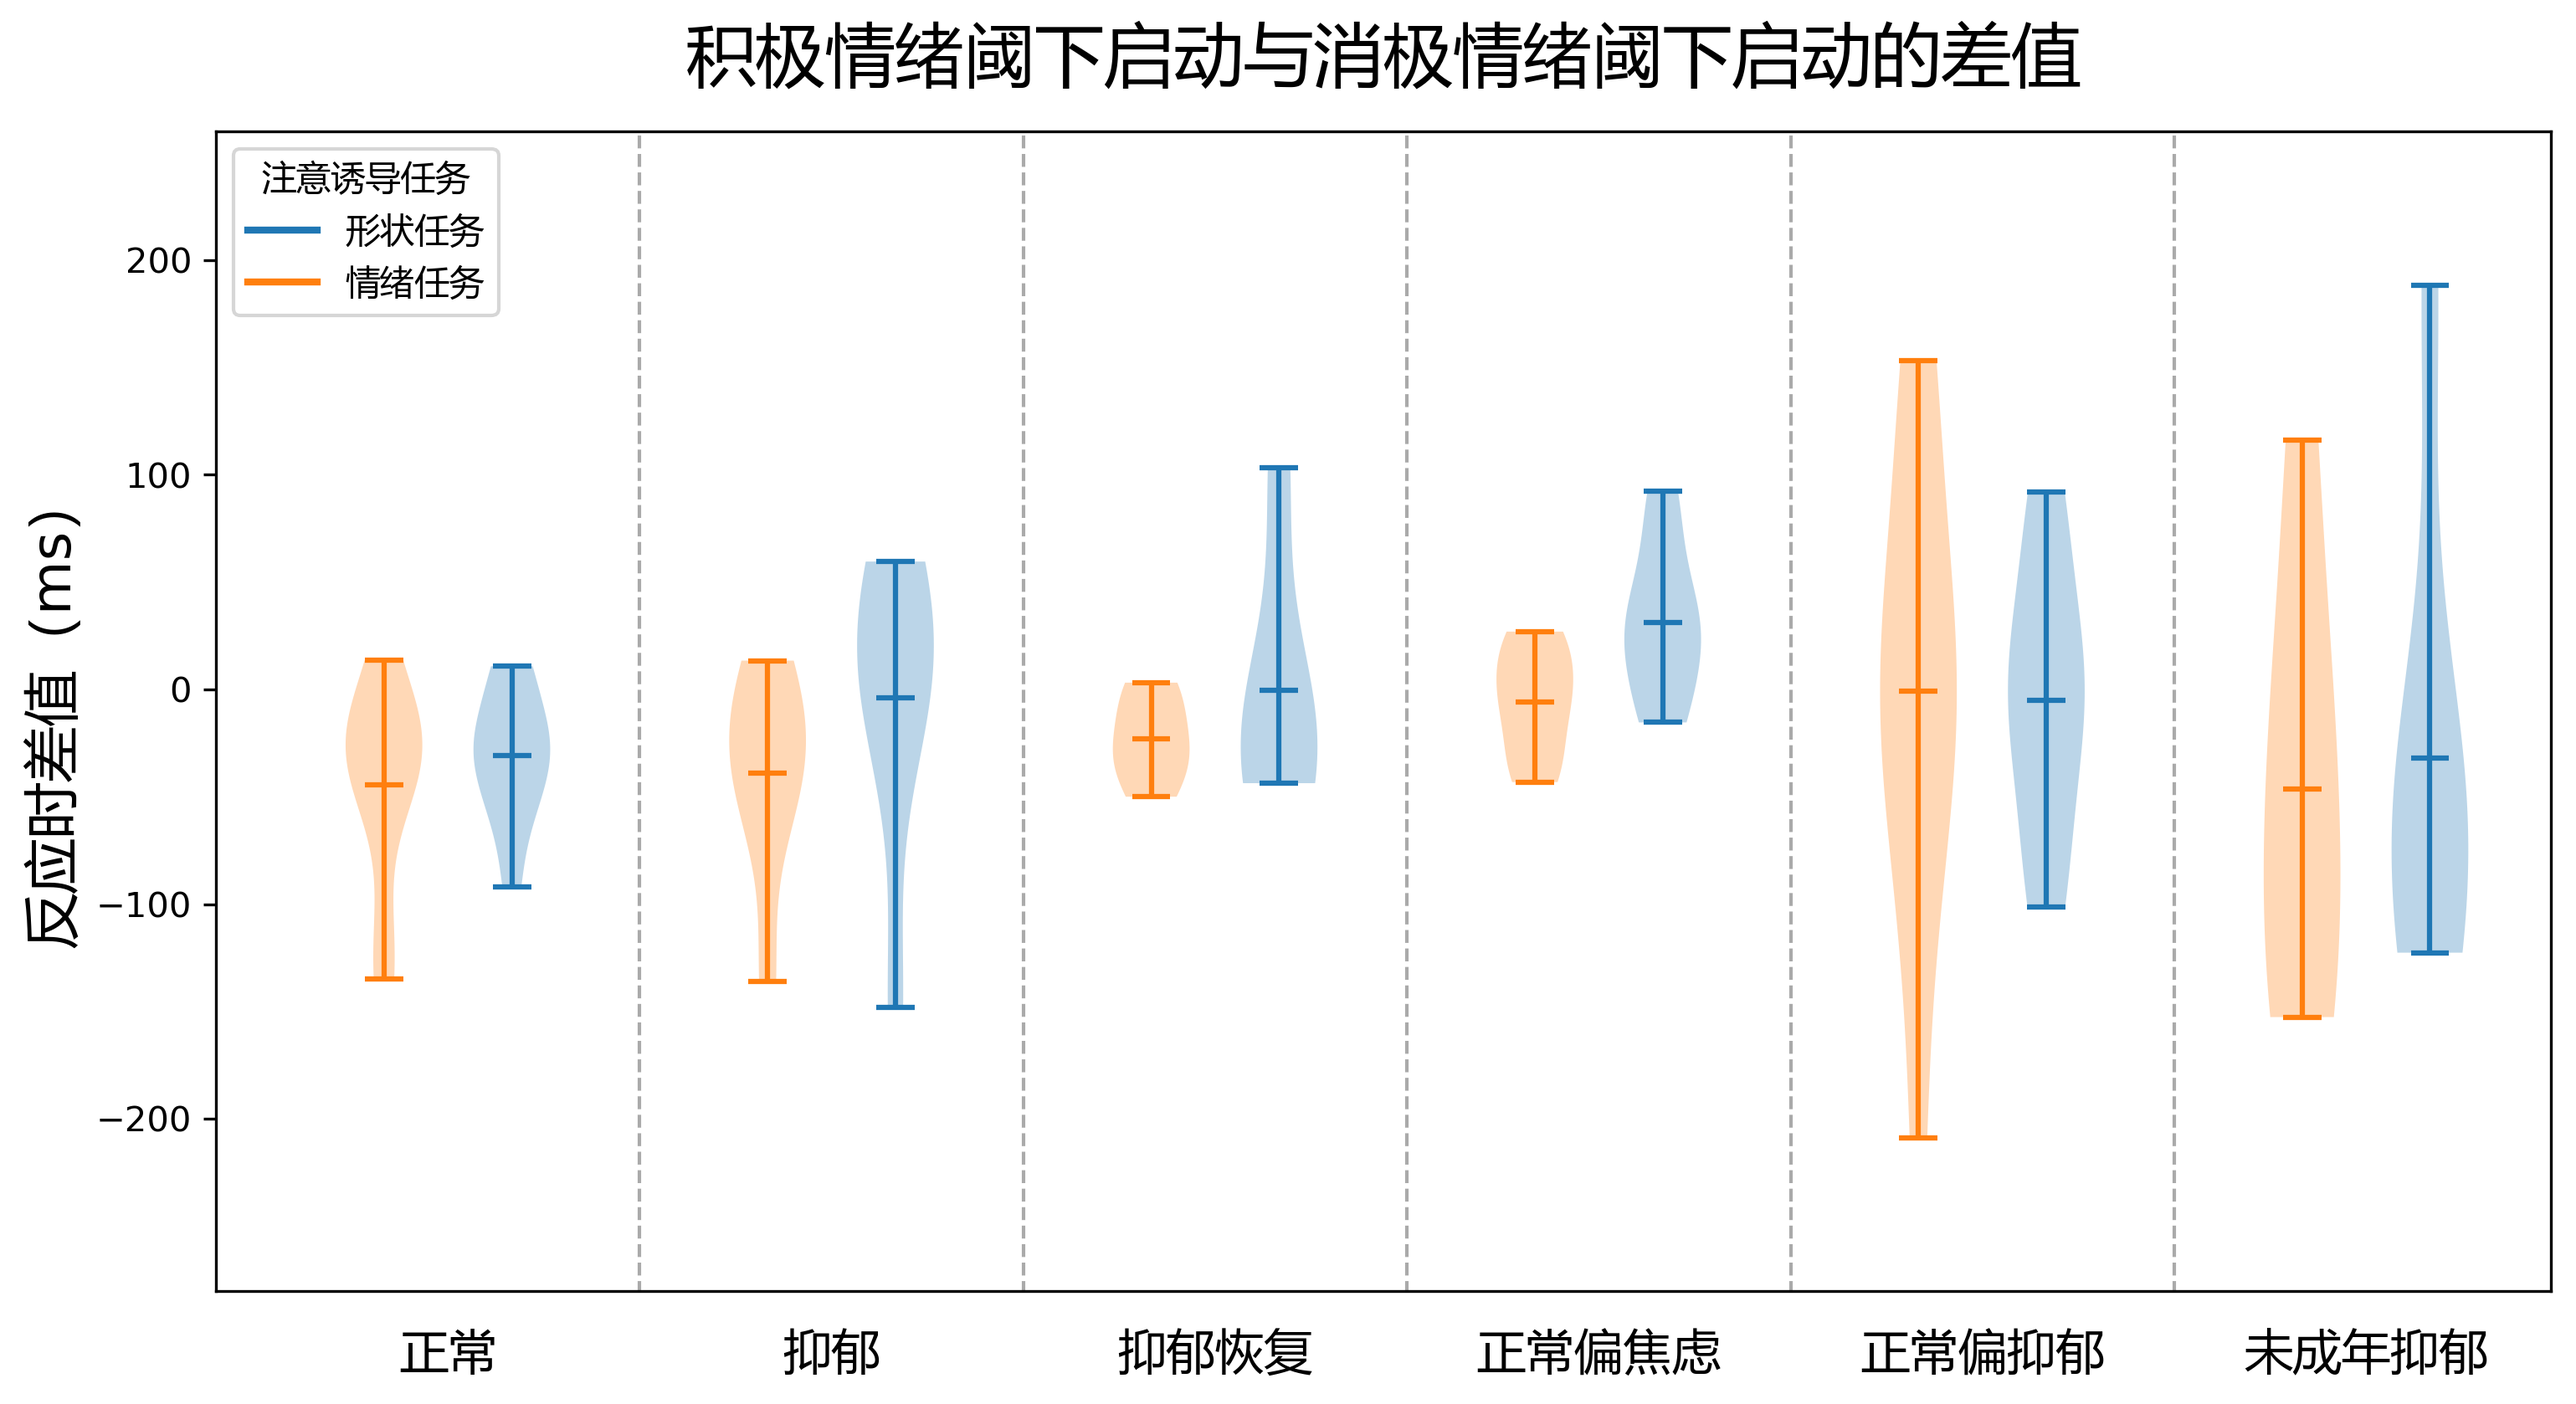
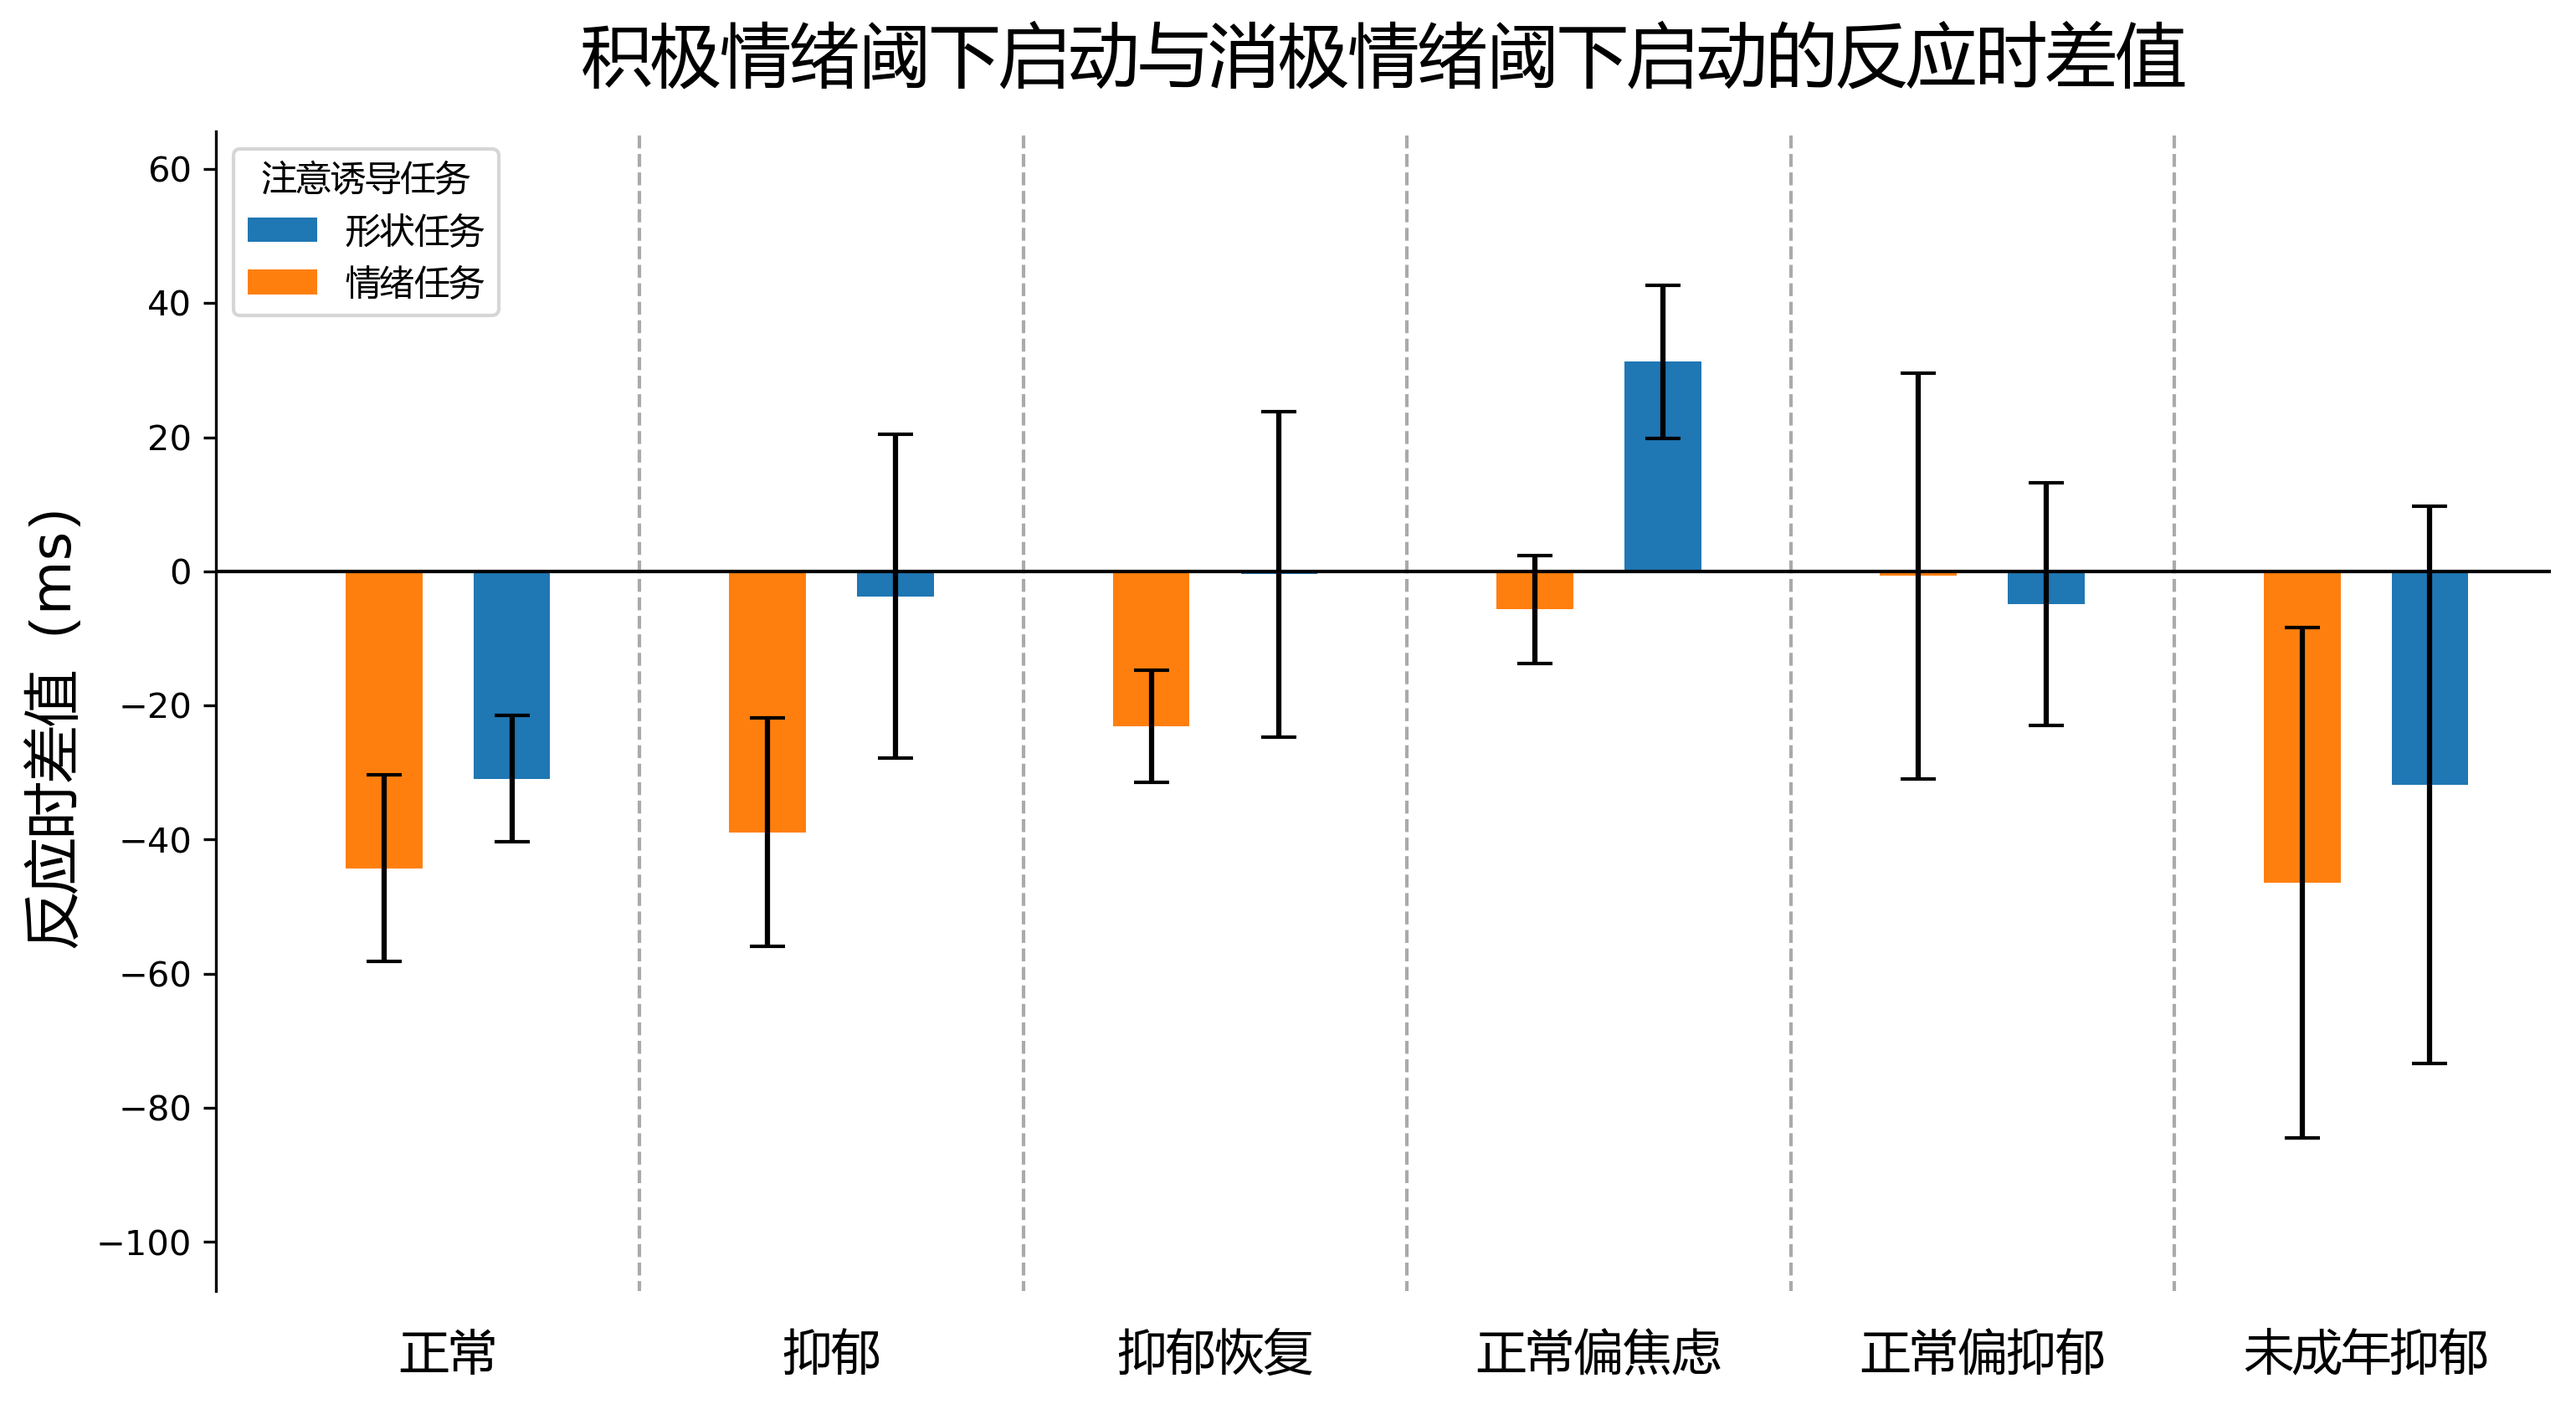
figure2

diff --git a/plot_2nd.py b/plot_2nd.py
@@ -42,8 +42,7 @@ def readData(fileDir):
 
 
 def plotFigure1():
-    fig  = figure()
-    ax = fig.add_subplot(111)
+    fig = figure(figsize=(12,6))
     groups = df['group'].unique()
     allDataShape = {}
     allDataEmotion = {}
@@ -53,65 +52,132 @@ def plotFigure1():
         allDataShape[group] = dfGroup['shape_pos-neg'].values
         allDataEmotion[group] = dfGroup['emotion_pos-neg'].values
 
-    fig = figure(figsize=(12,6))
     ax = fig.add_subplot(111)
-    y_min,y_max = (0,0)
+    y_min, y_max = (0, 0)
+    
+    bar_width = 0.6
     for i, group in enumerate(groups):
         dataEmotion = allDataEmotion[group]
         dataShape = allDataShape[group]
-        partShape = ax.violinplot(dataShape, positions=[i*3+0.5], showmeans=True, showmedians=False, widths=0.6)
-        partEmotion = ax.violinplot(dataEmotion, positions=[i*3-0.5], showmeans=True, showmedians=False, widths=0.6)
+        
+        # Calculate means and standard errors
+        shape_mean = np.mean(dataShape)
+        shape_error = np.std(dataShape) / np.sqrt(len(dataShape))
+        emotion_mean = np.mean(dataEmotion)
+        emotion_error = np.std(dataEmotion) / np.sqrt(len(dataEmotion))
+        
+        # Create bar plots instead of violin plots
+        ax.bar(i*3+0.5, shape_mean, width=bar_width, yerr=shape_error, color='#1f77b4', capsize=5, label='形状任务' if i == 0 else '')
+        ax.bar(i*3-0.5, emotion_mean, width=bar_width, yerr=emotion_error, color='#ff7f0e', capsize=5, label='情绪任务' if i == 0 else '')
+        
         if i != len(groups)-1:
-            ax.vlines([i*3+1.5], ymin=-500,  ymax=500, colors='#aaaaaa', linestyles='--', lw=1)
-        from matplotlib.lines import Line2D
-        proxy_shape   = Line2D([], [], color='#1f77b4', lw=2)   # 颜色可改
-        proxy_emotion = Line2D([], [], color='#ff7f0e', lw=2)
+            ax.vlines([i*3+1.5], ymin=-500, ymax=500, colors='#aaaaaa', linestyles='--', lw=1)
 
-        ax.legend([proxy_shape, proxy_emotion],
-          ['形状任务', '情绪任务'],title = '注意诱导任务',loc = 'upper left')
+        y_min = min(y_min, shape_mean - shape_error, emotion_mean - emotion_error)
+        y_max = max(y_max, shape_mean + shape_error, emotion_mean + emotion_error)
 
-        lines = ['cmins','cmaxes','cmeans','cbars']
-        for line in lines:
-            partShape[line].set_color('#1f77b4')
-            partEmotion[line].set_color('#ff7f0e')
-
-        for pc in partShape['bodies']:
-            pc.set_facecolor('#1f77b4')
-
-        for pc in partEmotion['bodies']:
-            pc.set_facecolor('#ff7f0e')
-            
-
-        y_min = min(y_min, min(dataShape), min(dataEmotion))
-        y_max = max(y_max, max(dataShape), max(dataEmotion))
+    
+    # Add horizontal line at y=0
+    ax.axhline(y=0, color='black', linestyle='-', linewidth=1.0)
+    
+    # Hide top, right and bottom spines
+    ax.spines['top'].set_visible(False)
+    ax.spines['right'].set_visible(False)
+    ax.spines['bottom'].set_visible(False)
+    
+    # Legend
+    ax.legend(title='注意诱导任务', loc='upper left')
     
     ax.set_xticks([i*3 for i in range(len(groups))])
-
     ax.set_xticklabels(groups, fontdict={'size': 14})
     x_min, x_max = ax.get_xlim()  
     dx = x_max - x_min
     ax.set_xlim(x_min - 0.01*dx, x_max - 0.01*dx)
-    ax.tick_params(axis='x', which = 'both',length = 8, color = '#ffffff')
+    ax.tick_params(axis='x', which='both', length=8, color='#ffffff')
 
     dy = y_max-y_min
     ax.set_ylim(y_min - 0.18*dy, y_max + 0.18*dy)
-    ax.set_ylabel('反应时差值（ms）',fontdict={'size': 16})
+    ax.set_ylabel('反应时差值（ms）', fontdict={'size': 16})
+    ax.set_title('积极情绪阈下启动与消极情绪阈下启动的反应时差值', fontdict={'size': 20}, pad=15)
 
-    ax.set_title('积极情绪阈下启动与消极情绪阈下启动的差值',fontdict={'size': 20},pad = 15)
-
-    fig.savefig(os.path.join(FIGURE_PATH, 'figure1.png'),bbox_inches='tight')
+    fig.savefig(os.path.join(FIGURE_PATH, 'figure1.png'), bbox_inches='tight')
     plt.close(fig)
 
+def plotFigure2():
+    fig = figure(figsize=(12,8))
+    ax1 = fig.add_subplot(211)
+    ax2 = fig.add_subplot(212)
+    groups = df['group'].unique()
+    allDataShape = {}
+    allDataEmotion = {}
+    
+    for group in groups:
+        dfGroup = df[df['group'] == group]
+        allDataShape[group] = dfGroup['shape_pos-neg'].values
+        allDataEmotion[group] = dfGroup['emotion_pos-neg'].values
+
+    y_min, y_max = (0, 0)
+    bar_width = 0.6
+    
+    for i, group in enumerate(groups):
+        dataEmotion = allDataEmotion[group]
+        dataShape = allDataShape[group]
+        
+        # Calculate means and standard errors
+        shape_mean = np.mean(dataShape)
+        shape_error = np.std(dataShape) / np.sqrt(len(dataShape))
+        emotion_mean = np.mean(dataEmotion)
+        emotion_error = np.std(dataEmotion) / np.sqrt(len(dataEmotion))
+        if i== 0:
+            # Create bar plots instead of violin plots
+            ax1.bar(i*1.5, shape_mean, width=bar_width, yerr=shape_error, color='#1f77b4', capsize=3,error_kw = {'linewidth': 1.0}, label='形状诱导任务')
+            ax2.bar(i*1.5, emotion_mean, width=bar_width, yerr=emotion_error, color='#ff7f0e', capsize=3, error_kw = {'linewidth': 1.0}, label='情绪诱导任务')
+        else:
+            ax1.bar(i*1.5, shape_mean, width=bar_width, yerr=shape_error, color='#1f77b4', capsize=3,error_kw = {'linewidth': 1.0})
+            ax2.bar(i*1.5, emotion_mean, width=bar_width, yerr=emotion_error, color='#ff7f0e', capsize=3,error_kw = {'linewidth': 1.0})
+
+        y_min = min(y_min, shape_mean - shape_error, emotion_mean - emotion_error)
+        y_max = max(y_max, shape_mean + shape_error, emotion_mean + emotion_error)
+
+    ax1.legend()
+    ax2.legend()
+
+    for ax in [ax1, ax2]:
+        # Add horizontal line at y=0
+        ax.axhline(y=0, color='black', linestyle='-', linewidth=1.0)
+        
+        # Hide top, right and bottom spines
+        # ax.spines['top'].set_visible(False)
+        # ax.spines['right'].set_visible(False)
+        # ax.spines['bottom'].set_visible(False)
+        
+
+        ax.set_xticks([i*1.5 for i in range(len(groups))])
+        ax.set_xticklabels(groups, fontdict={'size': 14})
+        ax.tick_params(axis='x', which='both', length=5, color="#000000")
+        # ax.set_title('情绪诱导任务时阈下启动的反应时差值', fontdict={'size': 16}, pad=5)
+
+        # ax.set_title('形状诱导任务时阈下启动的反应时差值', fontdict={'size': 16}, pad=5)
+
+        x_min, x_max = ax.get_xlim()
+        dx = x_max - x_min
+        ax.set_xlim(x_min - 0.04*dx, x_max + 0.04*dx)
+        dy = y_max-y_min
+        ax.set_ylim(y_min - 0.18*dy, y_max + 0.18*dy)
+        ax.set_ylabel('积极启动-消极启动反应时差值（ms）', fontdict={'size': 12})
+    
+
+    fig.savefig(os.path.join(FIGURE_PATH, 'figure2.png'), bbox_inches='tight')
+    plt.close(fig)
 
 def main():
     setPath()
     readData(fileDir=RESULT_PATH)
     deletePreviewsFigures(path=FIGURE_PATH)
     plotFigure1()
+    plotFigure2()
 
 if __name__ == '__main__':
     main()
-
-
 
 
